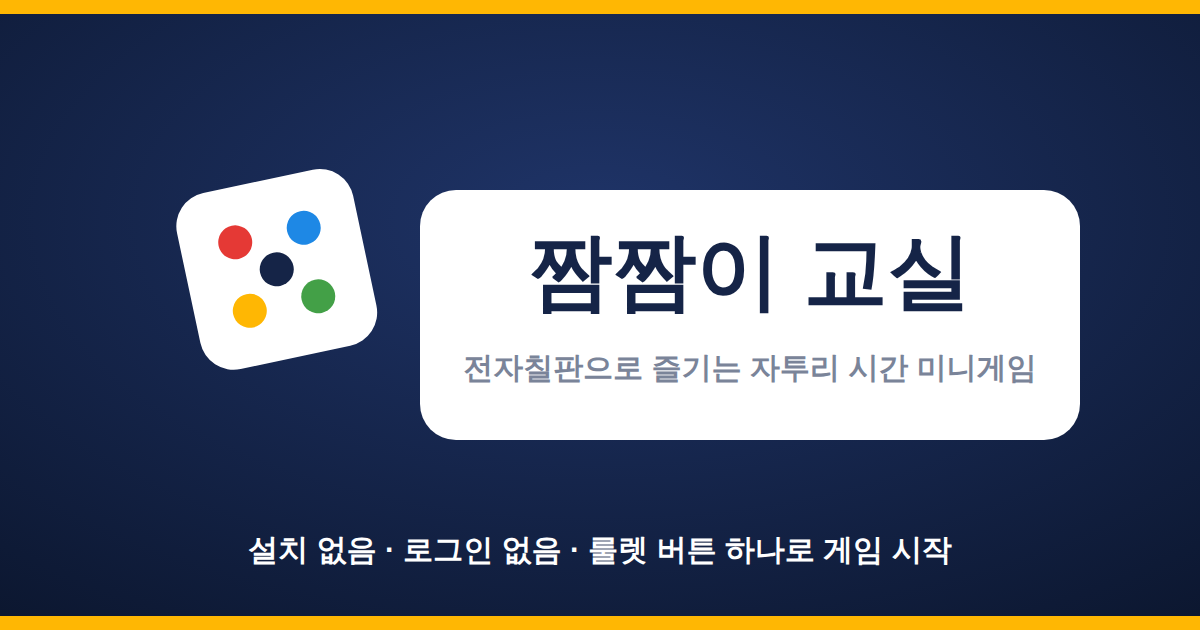
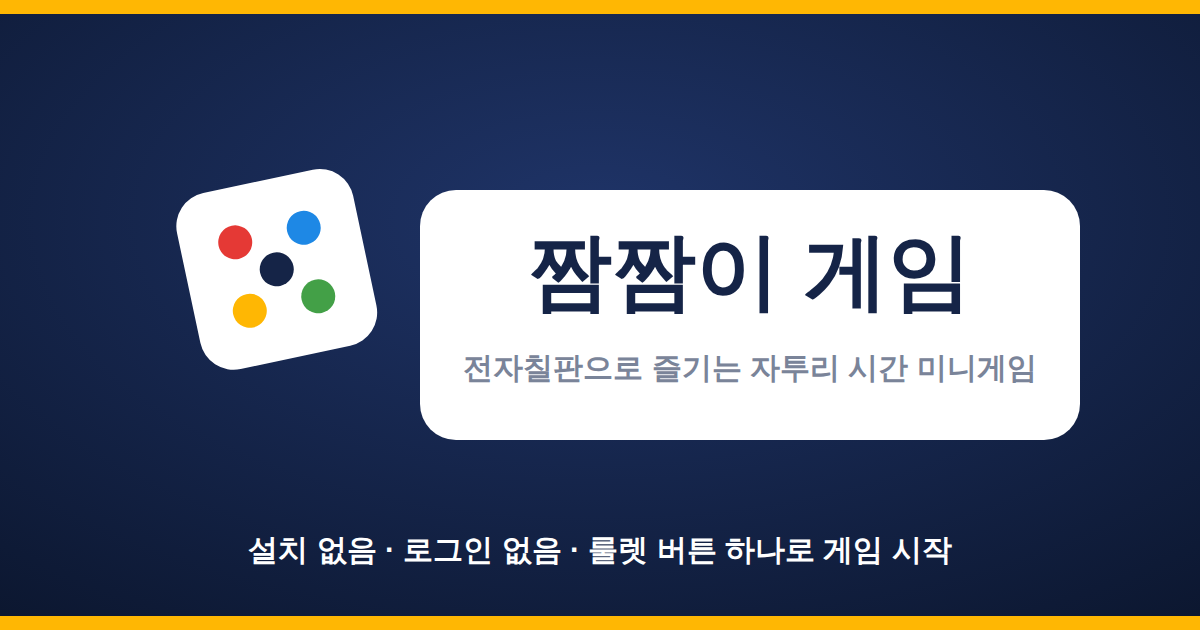
프로젝트 이름을 '짬짬이 게임'으로 변경하고 지식 카테고리 삭제 (#42)
- 사이트 이름 '짬짬이 교실' → '짬짬이 게임' (index.html 메타태그·제목·헤더,
  manifest.json, README, og-image.svg/png, docs/whats-new.svg)
  * 원작(jjamjjami-gyosil)을 지칭하는 '짬짬이 교실' 표기는 유지
- 게임이 0개인 지식(knowledge) 카테고리 제거:
  런처 필터 버튼, gen-metadata 분포 표기, verify-game 카테고리 목록,
  auto-add-game-helpers stats, AUTO_MODE·PATTERNS 문서
- whats-new.svg 분포를 현재 105종·5분야로 갱신, og-image.png 재생성

Claude-Session: https://claude.ai/code/session_01VRrzQx3XFzB9Hrt5wZLS3s

diff --git a/index.html b/index.html
@@ -4,25 +4,25 @@
   <meta charset="UTF-8">
   <meta name="viewport" content="width=device-width, initial-scale=1.0, user-scalable=no">
   <meta name="description" content="교실 전자칠판에서 바로 시작하는 초등 미니게임 105개. 룰렛 버튼 하나로 게임을 골라줍니다. 설치·로그인 없음, 오프라인 동작.">
-  <meta name="keywords" content="짬짬이 교실, 초등학교, 미니게임, 전자칠판 게임, 자투리 시간, 보드게임, 무료 게임">
-  <meta name="author" content="짬짬이 교실">
+  <meta name="keywords" content="짬짬이 게임, 초등학교, 미니게임, 전자칠판 게임, 자투리 시간, 보드게임, 무료 게임">
+  <meta name="author" content="짬짬이 게임">
 
   <!-- Open Graph -->
   <meta property="og:type" content="website">
-  <meta property="og:title" content="짬짬이 교실 — 자투리 시간 미니게임 테이블">
+  <meta property="og:title" content="짬짬이 게임 — 자투리 시간 미니게임 테이블">
   <meta property="og:description" content="룰렛 버튼 하나면 게임이 정해집니다. 전자칠판 최적화 초등 미니게임 105개.">
   <meta property="og:url" content="https://shway81-droid.github.io/jjam/">
   <meta property="og:image" content="https://shway81-droid.github.io/jjam/og-image.png">
   <meta property="og:image:width" content="1200">
   <meta property="og:image:height" content="630">
-  <meta property="og:image:alt" content="짬짬이 교실 — 자투리 시간 초등 미니게임">
+  <meta property="og:image:alt" content="짬짬이 게임 — 자투리 시간 초등 미니게임">
 
   <!-- Twitter Card -->
   <meta name="twitter:card" content="summary_large_image">
-  <meta name="twitter:title" content="짬짬이 교실 — 자투리 시간 미니게임 테이블">
+  <meta name="twitter:title" content="짬짬이 게임 — 자투리 시간 미니게임 테이블">
   <meta name="twitter:description" content="룰렛 버튼 하나면 게임이 정해집니다. 전자칠판 최적화 초등 미니게임 105개.">
   <meta name="twitter:image" content="https://shway81-droid.github.io/jjam/og-image.png">
-  <title>짬짬이 교실 — 자투리 시간 미니게임</title>
+  <title>짬짬이 게임 — 자투리 시간 미니게임</title>
   <link rel="icon" type="image/svg+xml" href="favicon.svg">
   <link rel="manifest" href="manifest.json">
   <meta name="theme-color" content="#152447">
@@ -461,7 +461,7 @@
         <div class="logo">
           <div class="logo-mark"><svg viewBox="0 0 100 100" width="46" height="46" xmlns="http://www.w3.org/2000/svg" aria-hidden="true"><rect width="100" height="100" rx="24" fill="#FFB703"/><circle cx="50" cy="52" r="30" fill="#152447"/><path d="M43 38 L43 66 L67 52 Z" fill="#FFB703"/><circle cx="79" cy="21" r="7" fill="#FFFFFF"/><circle cx="79" cy="21" r="3" fill="#152447"/></svg></div>
           <div>
-            <h1>짬짬이 교실</h1>
+            <h1>짬짬이 게임</h1>
             <div class="sub">전자칠판으로 즐기는 자투리 시간 미니게임</div>
           </div>
         </div>
@@ -478,7 +478,6 @@
         <button class="cat-btn" data-cat="speed">⚡ 반응속도</button>
         <button class="cat-btn" data-cat="brain">🧠 두뇌</button>
         <button class="cat-btn" data-cat="math">📐 수학</button>
-        <button class="cat-btn" data-cat="knowledge">📚 지식</button>
         <button class="cat-btn" data-cat="coop">🤝 협력</button>
         <button class="cat-btn" data-cat="puzzle">🧩 퍼즐</button>
         <div class="cat-search" id="catSearch">

diff --git a/scripts/gen-metadata.js b/scripts/gen-metadata.js
@@ -115,7 +115,7 @@ for (const t of targets) {
   for (const g of games) catCount[g.category] = (catCount[g.category] || 0) + 1;
   const distLine =
     `⚡반응속도 ${catCount.speed || 0} · 🧠두뇌 ${catCount.brain || 0} · 📐수학 ${catCount.math || 0}` +
-    ` · 📚지식 ${catCount.knowledge || 0} · 🤝협력 ${catCount.coop || 0} · 🧩퍼즐 ${catCount.puzzle || 0}`;
+    ` · 🤝협력 ${catCount.coop || 0} · 🧩퍼즐 ${catCount.puzzle || 0}`;
 
   const countTargets = [
     { file: 'index.html', name: '게임 수 표기', subs: [
@@ -130,7 +130,7 @@ for (const t of targets) {
       [/게임을 \d+종으로 늘리고/g, `게임을 ${total}종으로 늘리고`],
       [/## 게임 \d+종/g, `## 게임 ${total}종`],
       [/\*\*\d+종\*\* \(중복/g, `**${total}종** (중복`],
-      [/⚡반응속도 \d+ · 🧠두뇌 \d+ · 📐수학 \d+ · 📚지식 \d+ · 🤝협력 \d+ · 🧩퍼즐 \d+/g, distLine],
+      [/⚡반응속도 \d+ · 🧠두뇌 \d+ · 📐수학 \d+ · 🤝협력 \d+ · 🧩퍼즐 \d+/g, distLine],
     ]},
   ];
 

diff --git a/scripts/verify-game.js b/scripts/verify-game.js
@@ -110,7 +110,7 @@ check('5. registry.json 등록', () => {
 check('6. game.json category 유효', () => {
   const p = path.join(gameDir, 'game.json');
   const json = JSON.parse(fs.readFileSync(p, 'utf-8'));
-  const cats = ['speed', 'brain', 'math', 'knowledge', 'coop', 'puzzle'];
+  const cats = ['speed', 'brain', 'math', 'coop', 'puzzle'];
   return cats.includes(json.category) || `category "${json.category}" — ${cats.join('|')} 중 하나여야 함`;
 });
 
@@ -226,7 +226,7 @@ check('8. 카테고리 일관성 (game.json ↔ engine.js)', () => {
   const json = JSON.parse(fs.readFileSync(path.join(gameDir, 'game.json'), 'utf-8'));
   const engine = fs.readFileSync(path.join(ROOT, 'shared', 'engine.js'), 'utf-8');
 
-  const engineRe = new RegExp(`['"]${folder}['"]\\s*:\\s*['"](speed|brain|math|knowledge|coop|puzzle)['"]`);
+  const engineRe = new RegExp(`['"]${folder}['"]\\s*:\\s*['"](speed|brain|math|coop|puzzle)['"]`);
   const engineMatch = engine.match(engineRe);
 
   if (!engineMatch) return `engine.js _GAME_CATEGORY_MAP에 "${folder}" 없음 (npm run gen 필요)`;

diff --git a/scripts/auto-add-game-helpers.js b/scripts/auto-add-game-helpers.js
@@ -51,7 +51,7 @@ if (cmd === 'list-existing-folders') {
 if (cmd === 'stats') {
   // 카테고리는 game.json 단일 소스에서 집계
   const reg = readRegistry();
-  const counts = { speed: 0, brain: 0, math: 0, knowledge: 0, coop: 0, puzzle: 0 };
+  const counts = { speed: 0, brain: 0, math: 0, coop: 0, puzzle: 0 };
   reg.forEach(folder => {
     try {
       const j = JSON.parse(fs.readFileSync(path.join(ROOT, 'games', folder, 'game.json'), 'utf-8'));

diff --git a/README.md b/README.md
@@ -1,4 +1,4 @@
-# 🎮 짬짬이 교실
+# 🎮 짬짬이 게임
 
 **전자칠판으로 즐기는 자투리 시간 초등 미니게임 105종.**
 설치도 로그인도 없이 브라우저에서 바로 시작하고, 인터넷이 끊겨도 동작합니다.
@@ -18,7 +18,7 @@
 
 ## 원작과 달라진 점
 
-![원작과 달라진 점 한눈에 보기 — 게임 60종에서 100종으로 확대, 학생 뽑기·즐겨찾기·룰렛·첫 화면 배경음악·전체화면 추가, 소리 기본 ON, 빠른 로딩](docs/whats-new.svg)
+![원작과 달라진 점 한눈에 보기 — 게임 60종에서 105종으로 확대, 학생 뽑기·즐겨찾기·룰렛·첫 화면 배경음악·전체화면 추가, 소리 기본 ON, 빠른 로딩](docs/whats-new.svg)
 
 | 항목 | 원작 (jjamjjami-gyosil) | 이 버전 (jjam) |
 |---|---|---|
@@ -34,7 +34,7 @@
 
 ## 게임 105종 (카테고리 분포)
 
-⚡반응속도 22 · 🧠두뇌 19 · 📐수학 28 · 📚지식 0 · 🤝협력 17 · 🧩퍼즐 19
+⚡반응속도 22 · 🧠두뇌 19 · 📐수학 28 · 🤝협력 17 · 🧩퍼즐 19
 
 게임 선별·삭제 기준은 [docs/SELECTION.md](docs/SELECTION.md)에, 새 게임을 추가할 때 피하는
 안티패턴은 [docs/GAME_ANTIPATTERNS.md](docs/GAME_ANTIPATTERNS.md)에 정리되어 있습니다.

diff --git a/docs/PATTERNS.md b/docs/PATTERNS.md
@@ -20,7 +20,7 @@ engine.js가 제공하는 헬퍼를 재사용한다: `runCountdown`, `createTime
 `createSoundManager`(+`DEFAULT_SOUNDS`), `setupSoundToggle`, `setupPlayerSelect`,
 `onTap`, `getAutoplayPauseMs`, `goHome`. (BGM·군중음·상황 효과음은 자동 주입 — 게임 코드 무수정)
 
-## 패턴 A — 데이터 4지선다 / 분류 (knowledge·일부 math)
+## 패턴 A — 데이터 4지선다 / 분류 (일부 math)
 
 대상→4지선다 반복. 문제 데이터 풀에서 매 라운드 무작위 출제.
 
@@ -95,7 +95,7 @@ engine.js가 제공하는 헬퍼를 재사용한다: `runCountdown`, `createTime
   "icon": "🎲",                         // 이모지 1개
   "color": "#RRGGBB",                    // 헥스 6자리
   "playTime": "30초",
-  "category": "speed|brain|math|knowledge|coop|puzzle",
+  "category": "speed|brain|math|coop|puzzle",
   "players": "2-4명" | "2명"
 }
 ```

diff --git a/docs/AUTO_MODE.md b/docs/AUTO_MODE.md
@@ -62,7 +62,7 @@ node scripts/auto-add-game-helpers.js list-existing-folders
   `20 - 남은수`만큼 **새 후보를 추가(top-up)**한다(기존에 남아 있는 후보는 버리지 않고 그대로 둔다).
 - `stats`의 `byCategory`에서 **가장 적은 카테고리부터** 채운다. 균등을 강제하지는 않는다 —
   포화된 카테고리(speed/brain/coop/puzzle)에서 distinct·저삭제위험 후보가 부족하면
-  콘텐츠형(knowledge·math)으로 채워서라도 20개를 맞춘다.
+  콘텐츠형(math)으로 채워서라도 20개를 맞춘다.
 - 각 후보 = `{ folder, name, category, pattern, template }`
   (`pattern`=A~D, `template`=`PATTERNS.md`의 복사할 실존 게임 폴더).
 - 새 후보는 **현재 풀에 남은 후보 + registry + 0절/삭제목록**과 모두 교차 대조해 중복·금지를 피한다.